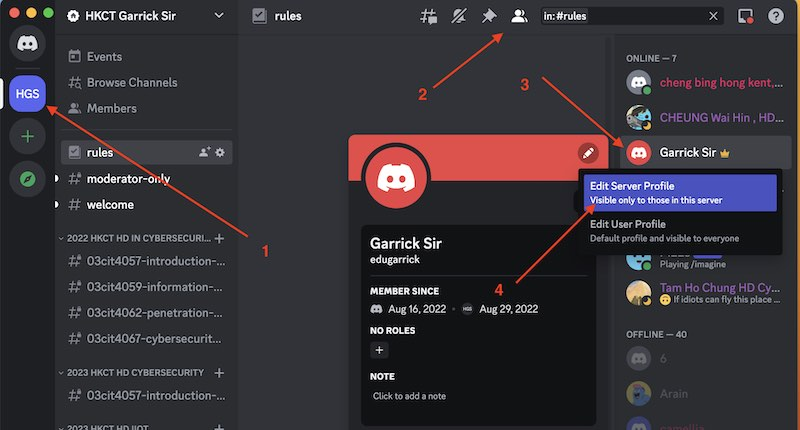
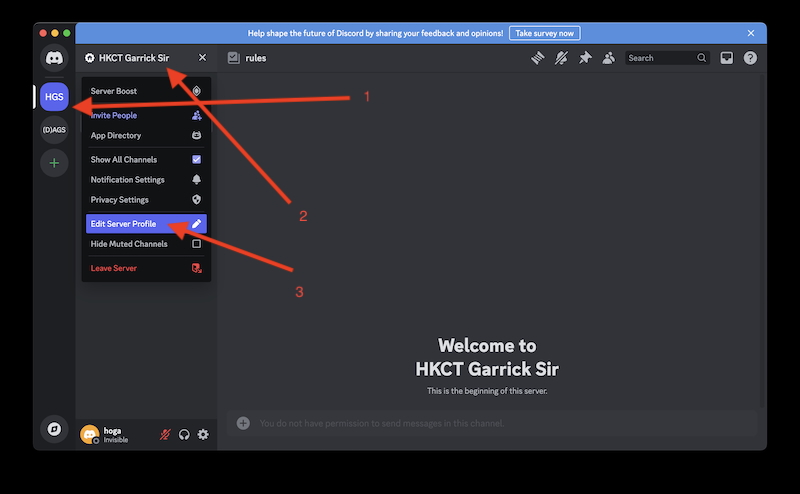
.

diff --git a/README.md b/README.md
@@ -31,22 +31,29 @@ Please follow the steps belows such that I can get familiar with you.
 
 1. Click the locations as follows to pop up your Server Profile  
 
-   a.  Click "HKCT Garrick Sir" Server  
-   b.  Click the "Member List" and then "Edit Server Profile"  
+   a.  Click "HGS" Server icon.
+   b.  Click "HKCT Garrick Sir" and pop up the pull down menu.
+   b.  Click the "Edit Server Profile". 
 
    ![](./img/discordserverp01.jpg)
 
 
 2. Your Server Profile is popped up.  
 
-   a. Updated the name as follows such that I know who you are.
+   a. Updated the "Server Nickname" with your REAL name and program shown as follows.
 
       For example:  
       例子:   
 
-    CHAN Tai Man , HD Cybersecurity   
-    陳大文 , 網絡安全高級文憑（檢測及合規）  
-    陈大文, 网络安全高级文凭（检测及合规）   
+      CHAN Tai Man , HD Cybersecurity   
+      陳大文, 網絡安全高級文憑（檢測及合規）  
+      陈大文, 网络安全高级文凭（检测及合规）   
 
-    ![](./img/discordserverp02.jpg)
+      A preview ( purple circle in the figure ) will be shown.
+
+      ![](./img/discordserverp02.jpg)
+   
+   b. Click "Save Changes" button.  Your name will be shown up in my server.
+
+   c. The change is effective in "HKCT Garrick Sir" Server.  It will not change your "Server Nickname" in other Discord Servers.
 
